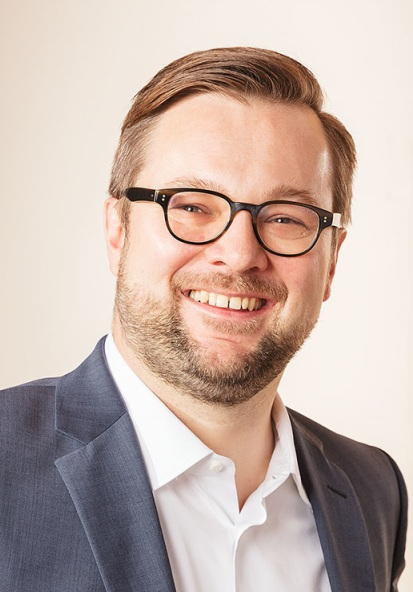
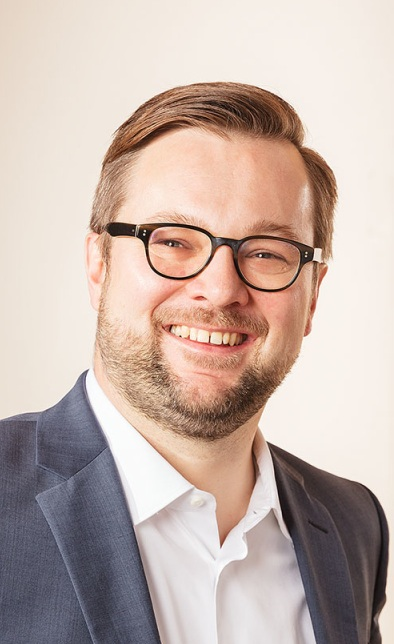
rename

diff --git a/methodik.html b/methodik.html
@@ -3,7 +3,7 @@
 <head>
 <meta charset="UTF-8" />
 <meta name="viewport" content="width=device-width, initial-scale=1.0" />
-<title>Methodik · vox helvetica publica</title>
+<title>Methodik · civitas helvetica publica</title>
 <link rel="preconnect" href="https://fonts.googleapis.com" />
 <link rel="preconnect" href="https://fonts.gstatic.com" crossorigin />
 <link href="https://fonts.googleapis.com/css2?family=Inter:wght@400;500;600;700&family=JetBrains+Mono:wght@400;500;600&display=swap" rel="stylesheet" />
@@ -15,10 +15,10 @@
   <div class="nav-inner">
     <div class="brand-group">
       <a href="index.html" class="brand">
-        <div class="brand-mark" aria-label="Vox Helvetica">
+        <div class="brand-mark" aria-label="civitas helvetica">
           <img src="vox-logo.png" alt="" aria-hidden="true" />
         </div>
-        vox helvetica
+        civitas helvetica
       </a>
       <span class="brand-divider"></span>
       <a class="brand-unibas" href="https://soziologie.philhist.unibas.ch/de/personen/oliver-nachtwey/" target="_blank" rel="noopener" aria-label="Universität Basel">
@@ -67,10 +67,10 @@
     <div class="method-content">
 
       <section id="korpus" class="reveal">
-        <h2>Der Vox Helvetica Korpus</h2>
+        <h2>Der civitas helvetica Korpus</h2>
         <p>
           Grundlage der Anwendung ist der über mehrere Jahre kuratierte und quellenkritisch erschlossene
-          <strong>Vox Helvetica Korpus</strong>. Er erfasst sämtliche eidgenössischen Abstimmungen seit 1848
+          <strong>civitas helvetica Korpus</strong>. Er erfasst sämtliche eidgenössischen Abstimmungen seit 1848
           und kombiniert quantitative Mikrodaten mit historischen Primärquellen sowie Sekundärliteratur.
         </p>
         <h3>Datenklassen</h3>
@@ -107,7 +107,7 @@
         <h3>Architektur in vier Schritten</h3>
         <ul>
           <li><strong>1. Frageklassifikation:</strong> Die Nutzer:innen-Frage wird analysiert (quantitative Anfrage? Historischer Kontext? Methodische Reflexion?).</li>
-          <li><strong>2. Quellen-Retrieval:</strong> Aus dem Vox Helvetica Korpus werden die relevantesten Belege abgerufen — strukturiert (SQL) und unstrukturiert (Vektor-Embeddings).</li>
+          <li><strong>2. Quellen-Retrieval:</strong> Aus dem civitas helvetica Korpus werden die relevantesten Belege abgerufen — strukturiert (SQL) und unstrukturiert (Vektor-Embeddings).</li>
           <li><strong>3. Antwortgenerierung mit Zitierzwang:</strong> Das LLM darf nur Aussagen formulieren, die durch mindestens eine Quelle gestützt sind. Jede Aussage erhält eine Belegnummer.</li>
           <li><strong>4. Visualisierungs-Pipeline:</strong> Wo sinnvoll, generiert das System parametrisierte Karten und Zeitreihen aus den Primärdaten.</li>
         </ul>
@@ -158,7 +158,7 @@
         <h2>Publikationen</h2>
         <p>Methodik und Korpus sind in peer-reviewed Publikationen dokumentiert:</p>
         <ul>
-          <li>Keiser, L., Nachtwey, O. &amp; Truffer, J. (2026). <em>The Vox Helvetica Corpus: A Multi-Modal Dataset of Swiss Direct Democracy, 1874–2024.</em> Swiss Political Science Review, 31(2), 184–212.</li>
+          <li>Keiser, L., Nachtwey, O. &amp; Truffer, J. (2026). <em>The civitas helvetica Corpus: A Multi-Modal Dataset of Swiss Direct Democracy, 1874–2024.</em> Swiss Political Science Review, 31(2), 184–212.</li>
           <li>Nachtwey, O. et al. (2028). <em>Conversational Public Science: Designing a Trustworthy LLM Interface for Historical Voting Data.</em> Digital Scholarship in the Humanities, forthcoming.</li>
           <li>Keiser, L., Nachtwey, O. &amp; Truffer, J. (2027). <em>Sonderbund and Capital-hostile voting in Switzerland: A re-analysis of 150 years of eidgenössischer Abstimmungen.</em> American Journal of Sociology.</li>
         </ul>
@@ -166,7 +166,7 @@
 
       <section id="team" class="reveal">
         <h2>Team</h2>
-        <p>Das Vox Helvetica Lab ist ein interdisziplinärer Verbund aus Politik- und Sozialwissenschaft, Geschichtswissenschaft, Digital Humanities und Computer Science.</p>
+        <p>Das civitas helvetica Lab ist ein interdisziplinärer Verbund aus Politik- und Sozialwissenschaft, Geschichtswissenschaft, Digital Humanities und Computer Science.</p>
         <div class="team-grid reveal-stagger">
           <div class="team-card">
             <div class="team-photo"><img src="team-nachtwey.jpg" alt="Oliver Nachtwey" onerror="this.style.display='none'; this.parentNode.classList.add('photo-fallback'); this.parentNode.textContent='ON';"></div>
@@ -201,7 +201,7 @@
         </ul>
         <div class="callout" style="border-left-color: var(--secondary);">
           <strong>Beta-Hinweis.</strong> Diese Anwendung befindet sich in der öffentlichen Erprobungsphase.
-          Antworten können fehlerhaft sein. Die wissenschaftliche Letzt-Verantwortung verbleibt beim Vox Helvetica Lab —
+          Antworten können fehlerhaft sein. Die wissenschaftliche Letzt-Verantwortung verbleibt beim civitas helvetica Lab —
           die historische Letzt-Beurteilung bei Ihnen.
         </div>
       </section>
@@ -214,10 +214,10 @@
   <div class="footer-inner">
     <div>
       <a href="index.html" class="brand" style="margin-bottom: 14px;">
-        <div class="brand-mark" aria-label="Vox Helvetica">
+        <div class="brand-mark" aria-label="civitas helvetica">
           <img src="vox-logo.png" alt="" aria-hidden="true" />
         </div>
-        vox helvetica
+        civitas helvetica
       </a>
       <p style="color: var(--text-muted); font-size: 13.5px; max-width: 320px; margin-top: 8px; line-height: 1.6;">
         Eine Initiative des Lehrstuhls Sozialstrukturanalyse der Universität Basel im Geiste einer Public Science. Ermöglicht durch grosszügige Unterstützung durch die Christoph Merian Stiftung Basel.
@@ -249,7 +249,7 @@
     </div>
   </div>
   <div class="footer-bottom">
-    <span>© 2026 Vox Helvetica Lab</span>
+    <span>© 2026 civitas helvetica Lab</span>
     <span>v0.3 · public preview</span>
   </div>
 </footer>
@@ -258,7 +258,7 @@
   // TOC active state on scroll
   const sections = document.querySelectorAll('.method-content section');
   const tocLinks = document.querySelectorAll('.method-toc a');
-  // Only reveal the TOC once the first h2 ("Der Vox Helvetica Korpus") reaches the top
+  // Only reveal the TOC once the first h2 ("Der civitas helvetica Korpus") reaches the top
   const firstHeading = document.querySelector('#korpus h2');
   const REVEAL_OFFSET = 110;     // ~ nav-height + a little padding
   window.addEventListener('scroll', () => {

diff --git a/index.html b/index.html
@@ -3,8 +3,8 @@
 <head>
 <meta charset="UTF-8" />
 <meta name="viewport" content="width=device-width, initial-scale=1.0" />
-<title>vox helvetica publica — 150 Jahre Schweizer Direktdemokratie, im Dialog</title>
-<meta name="description" content="Konversationsbasierte Web-Anwendung des Vox Helvetica Lab. Frag selbst, was die Schweiz seit 1848 entschieden hat — auf der Basis eines kuratierten, quellenkritisch erschlossenen Korpus." />
+<title>civitas helvetica publica — 150 Jahre Schweizer Direktdemokratie, im Dialog</title>
+<meta name="description" content="Konversationsbasierte Web-Anwendung des civitas helvetica Lab. Frag selbst, was die Schweiz seit 1848 entschieden hat — auf der Basis eines kuratierten, quellenkritisch erschlossenen Korpus." />
 <link rel="preconnect" href="https://fonts.googleapis.com" />
 <link rel="preconnect" href="https://fonts.gstatic.com" crossorigin />
 <link href="https://fonts.googleapis.com/css2?family=Inter:wght@400;500;600;700&family=JetBrains+Mono:wght@400;500;600&display=swap" rel="stylesheet" />
@@ -17,10 +17,10 @@
   <div class="nav-inner">
     <div class="brand-group">
       <a href="index.html" class="brand">
-        <div class="brand-mark" aria-label="Vox Helvetica">
+        <div class="brand-mark" aria-label="civitas helvetica">
           <img src="vox-logo.png" alt="" aria-hidden="true" />
         </div>
-        vox helvetica
+        civitas helvetica
       </a>
       <span class="brand-divider"></span>
       <a class="brand-unibas" href="https://soziologie.philhist.unibas.ch/de/personen/oliver-nachtwey/" target="_blank" rel="noopener" aria-label="Universität Basel">
@@ -49,7 +49,7 @@
   <h1>150 Jahre Direkte&nbsp;Demokratie.<br /><span class="accent">Frag selbst.</span></h1>
   <p class="lede">
     Eine konversationsbasierte Anwendung über sämtliche eidgenössischen Abstimmungen
-    seit 1848 — gestützt auf den kuratierten Vox Helvetica Korpus, mit transparenten Quellen,
+    seit 1848 — gestützt auf den kuratierten civitas helvetica Korpus, mit transparenten Quellen,
     interaktiven Karten bis auf Gemeindeebene und historischer Einordnung durch Expert:innen-Dokumente.
   </p>
   <div class="hero-ctas">
@@ -151,7 +151,7 @@
     <div class="feature">
       <div class="icon">⚙</div>
       <h3>Retrieval auf kuratiertem Korpus</h3>
-      <p>Das LLM generiert seine Antworten ausschliesslich auf den quellenkritisch erschlossenen Beständen des Vox Helvetica Korpus — keine Halluzinationen aus dem Open Web.</p>
+      <p>Das LLM generiert seine Antworten ausschliesslich auf den quellenkritisch erschlossenen Beständen des civitas helvetica Korpus — keine Halluzinationen aus dem Open Web.</p>
     </div>
     <div class="feature">
       <div class="icon">🗺</div>
@@ -188,7 +188,7 @@
       <span class="eyebrow"><span class="dot"></span>Public Science</span>
       <h2 style="margin-top:18px;">Wissenschaft, die in die Gesellschaft zurückfliesst.</h2>
       <p>
-        Das Vox Helvetica Lab versteht sich in der Tradition der Public Science:
+        Das civitas helvetica Lab versteht sich in der Tradition der Public Science:
         Wir geben unsere Forschungsergebnisse in nützlicher Frist und in gemeinwohlorientierter Absicht
         an die Öffentlichkeit zurück. Diese Anwendung senkt die Schwelle zur autodidaktischen Demokratiebildung,
         unterstützt evidenzbasierte Meinungsbildung und positioniert das Lab als demokratische Infrastruktur —
@@ -253,7 +253,7 @@
       <div class="brand-mark-sm" aria-hidden="true">
         <img src="vox-logo.png" alt="" />
       </div>
-      <span>vox helvetica publica wird gestartet…</span>
+      <span>civitas helvetica publica wird gestartet…</span>
     </div>
     <div class="chat-modal-composer">
       <div class="chat-modal-input" id="chatModalInput"></div>
@@ -270,10 +270,10 @@
   <div class="footer-inner">
     <div>
       <a href="index.html" class="brand" style="margin-bottom: 14px;">
-        <div class="brand-mark" aria-label="Vox Helvetica">
+        <div class="brand-mark" aria-label="civitas helvetica">
           <img src="vox-logo.png" alt="" aria-hidden="true" />
         </div>
-        vox helvetica
+        civitas helvetica
       </a>
       <p style="color: var(--text-muted); font-size: 13.5px; max-width: 360px; margin-top: 8px; line-height: 1.6;">
         Eine Initiative des Lehrstuhls Sozialstrukturanalyse der Universität Basel im Geiste einer Public Science. Ermöglicht durch grosszügige Unterstützung durch die Christoph Merian Stiftung Basel.
@@ -307,7 +307,7 @@
     </div>
   </div>
   <div class="footer-bottom">
-    <span>© 2026 Vox Helvetica Lab · Universität — Institut für Politikwissenschaft</span>
+    <span>© 2026 civitas helvetica Lab · Universität — Institut für Politikwissenschaft</span>
     <span>v0.3 · public preview</span>
   </div>
 </footer>

diff --git a/chat.html b/chat.html
@@ -3,7 +3,7 @@
 <head>
 <meta charset="UTF-8" />
 <meta name="viewport" content="width=device-width, initial-scale=1.0" />
-<title>Chat · vox helvetica publica</title>
+<title>Chat · civitas helvetica publica</title>
 <link rel="preconnect" href="https://fonts.googleapis.com" />
 <link rel="preconnect" href="https://fonts.gstatic.com" crossorigin />
 <link href="https://fonts.googleapis.com/css2?family=Inter:wght@400;500;600;700&family=JetBrains+Mono:wght@400;500;600&display=swap" rel="stylesheet" />
@@ -16,10 +16,10 @@
   <div class="nav-inner">
     <div class="brand-group">
       <a href="index.html" class="brand">
-        <div class="brand-mark" aria-label="Vox Helvetica">
+        <div class="brand-mark" aria-label="civitas helvetica">
           <img src="vox-logo.png" alt="" aria-hidden="true" />
         </div>
-        vox helvetica
+        civitas helvetica
       </a>
       <span class="brand-divider"></span>
       <a class="brand-unibas" href="https://soziologie.philhist.unibas.ch/de/personen/oliver-nachtwey/" target="_blank" rel="noopener" aria-label="Universität Basel">
@@ -106,7 +106,7 @@
         </div>
       </div>
       <div class="composer-hint">
-        Antworten werden auf Basis des Vox Helvetica Korpus generiert und mit Quellenangaben belegt. Beta-Version.
+        Antworten werden auf Basis des civitas helvetica Korpus generiert und mit Quellenangaben belegt. Beta-Version.
       </div>
     </div>
   </main>
@@ -2564,7 +2564,7 @@
     <a class="source-chip"><span class="num">4</span>Sciarini &amp; Listhaug (1997)</a>
     <a class="source-chip"><span class="num">5</span>Trechsel (2000)</a>
     <a class="source-chip"><span class="num">6</span>Linder &amp; Mueller (2017)</a>
-    <a class="source-chip"><span class="num">7</span>Vox Helvetica Korpus, codebook v3</a>
+    <a class="source-chip"><span class="num">7</span>civitas helvetica Korpus, codebook v3</a>
   </div>
 </div>`.trim();
 
@@ -2793,11 +2793,11 @@
     const wrap = document.createElement('div');
     wrap.className = 'msg assistant';
     wrap.innerHTML = `
-      <div class="avatar" aria-label="Vox Helvetica">
+      <div class="avatar" aria-label="civitas helvetica">
         <img src="vox-logo.png" alt="" aria-hidden="true" />
       </div>
       <div class="bubble">
-        <div class="name">vox helvetica publica</div>
+        <div class="name">civitas helvetica publica</div>
         <div class="text"></div>
       </div>`;
     inner.appendChild(wrap);
@@ -3319,7 +3319,7 @@
 <div class="sources-row">
 <a class="source-chip"><span class="num">15</span>BFS Sprachregionen-Panel 1848–2024</a>
 <a class="source-chip"><span class="num">16</span>Linder &amp; Mueller (2017), Kap. 7</a>
-<a class="source-chip"><span class="num">17</span>Vox Helvetica Korpus, Aggregation v3.1</a>
+<a class="source-chip"><span class="num">17</span>civitas helvetica Korpus, Aggregation v3.1</a>
 </div>
 </div>`.trim();
 
@@ -3420,7 +3420,7 @@
 <div class="sources-row">
 <a class="source-chip"><span class="num">18</span>BFS Abstimmungsstatistik 1866–2026 (Gemeindeebene)</a>
 <a class="source-chip"><span class="num">19</span>Vatter (2018), Politische Geographie der Schweiz</a>
-<a class="source-chip"><span class="num">20</span>Vox Helvetica Korpus · Aggregation v3.1</a>
+<a class="source-chip"><span class="num">20</span>civitas helvetica Korpus · Aggregation v3.1</a>
 </div>
 </div>`.trim();
 